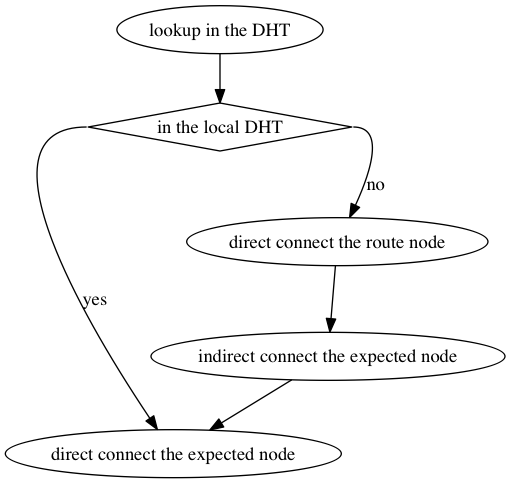
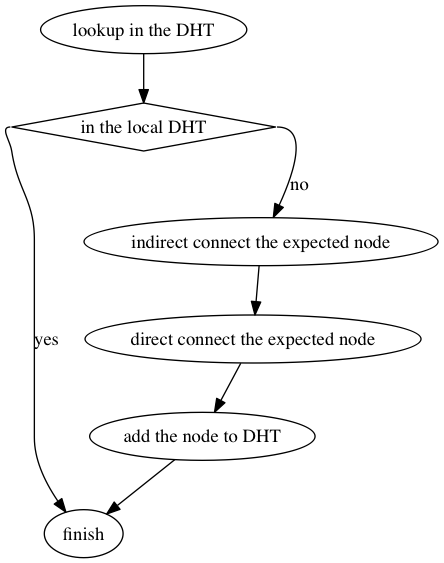
update doc for mate protocol

Changed region(s): [[0.0, 0.0, 0.9955, 0.9938], [0.0878, 0.8385, 0.1171, 0.8696], [0.0878, 0.2795, 0.1171, 0.3106]]

diff --git a/lib/network.js b/lib/network.js
@@ -65,6 +65,8 @@ function Network(options) {
 inherits(Network, events.EventEmitter);
 
 Network.prototype.sendMessage = function (message, address) {
+	message.version = protocol.version;
+
 	debug('Mate udp node send message: %j', message);
 
 	var data = bencode.encode(message);

diff --git a/lib/protocol.js b/lib/protocol.js
@@ -1,5 +1,7 @@
 /* Protocol - protocol constants */
 
+module.exports.version = 1;
+
 /* Message type code => mnemonic */
 module.exports.types = {
 	0: 'mate_lookup',

diff --git a/doc/mate-protocol.md b/doc/mate-protocol.md
@@ -2,32 +2,86 @@
 
 ------
 
-P2P网络中经常需要快速准确地发现目标节点，由于如今网络的复杂化使得这一目标并不容易达成，尤其是存在大量通过NAT实现的专有网络的情况下。此协议旨在解决现有网络条件下发现P2P节点并保证其可用性的问题，它借鉴了部分[DHT协议](http://www.bittorrent.org/beps/bep_0005.html)的实现原理，但它并不同于DHT协议。
+此协议旨在简化建立点到点（P2P）连接的过程，可用于构建分布式的网络体系。
+
+## 版本
+当前版本号：1
 
 ## 概述
-网络中每个节点都使用一串[UUID](http://zh.wikipedia.org/wiki/通用唯一识别码)作为ID，此ID作为节点在整个网络中的唯一标识符，用于后续节点的发现与连接。任一节点已知的所有节点（包括自身）信息都存放于由[Kademlia](http://zh.wikipedia.org/wiki/Kademlia)算法实现的路由表中,它使用节点ID作为索引，ID异或结果作为节点间距离，因而可在路由表中找出距离某一节点最近的一些节点（非地理位置距离）。
-协议基于UDP实现，其总体流程如下图所示。
+网络中每个节点都有一个唯一的身份识别码（ID），此ID默认为UUID，不过也可以通过外部接口设定（由外部保证唯一性），用于后续其他节点与之连接。除此之外每个节点还有一张由[Kademlia](http://zh.wikipedia.org/wiki/Kademlia)算法实现的路由表,此节点已知的所有节点（包括自身）信息都存放于其中，用于帮助网络中的节点发现其他节点。
+在网络中仅通过ID便可与此ID的节点建立连接，其大致流程如下图所示。
 
 ![](findNode.png)
 
-首先在DHT中寻找目标节点，找到后判断其是否位于本地的路由表中：如果是则直接根据本地路由表返回的节点信息进行连接；否则先连接存有此目标节点的路由表所在的节点，最后再连接目标节点。
+首先在DHT中**寻找目标节点**，如果在本地的路由表中找到目标节点则说明此节点已连接；否则先**间接连接**此目标节点，最后再尝试**直接连接**目标节点。寻找目标节点、间接连接和直接连接的实现细节见下文。
 
-### 节点发现
+### 寻找目标节点
 假设自身节点为Node1，需要寻找节点Node5。首先在Node1的路由表中查询Node5，获得异或距离最近的一些节点信息列表。如果列表中包含Node5则表明已经找到所需节点，发现流程结束；否则继续对列表中每个节点的路由表都发起查询请求，依此递归操作，直到超时。时序图如下。
 
 ![](lookup.png)
 
-### 节点连接
-假设自身节点为Node1，需要连接的节点为Node2，包含Node2的路由表所在节点为Node3，起始连接状态为connecting（连接中）。Node1首先使用Node3做代理连接Node2，如果连接成功则将连接状态改为tranship（转发），否则连接失败。时序图如下。
+### 间接连接
+假设自身节点为Node1，需要连接的节点为Node2，包含Node2的路由表所在节点为Node3。Node1使用Node3做代理连接Node2，如果连接成功则Node1将Node2连接信息存入本地路由表，Node2将Node1连接信息存入本地路由表。时序图如下。
 
 ![](indirect.png)
 
-然后Node1尝试直接连接Node2，如果连接成功则将连接状态置为connected（已连接）。时序图如下。
+### 直接连接
+假设Node1需要直接连接Node2。如果Node2节点已经处于间接连接状态则采用**三次握手**的方式进行连接；否则采用**两次握手**的方式进行连接，如果连接成功则Node1将Node2连接信息存入（或更新）本地路由表，Node2将Node1连接信息存入（或更新）本地路由表。
 
-![](direct.png)
+#### 三次握手连接
+与TCP连接类似，其时序图如下。
 
-具体连接过程与TCP连接类似，包括以下几个步骤：
+![](direct_with_three.png)
+
+包括以下几个步骤：
 > 1. 连接发起端向被连接端发送connect；
 > 2. 被连接端回应conack；
-> 3. 连接两端周期性向对方发送ping；
-> 4. 连接两端在一定时间内（大于ping周期）未收到回应则连接失败。
+> 3. 连接发起端回应concomp。
+
+#### 两次握手连接
+与三次握手连接基本一致，仅去除concomp过程，其时序图如下。
+
+![](direct_with_two.png)
+
+包括以下几个步骤：
+> 1. 连接发起端向被连接端发送connect；
+> 2. 被连接端回应conack。
+
+### 心跳
+所有位于本地路由表中的节点都应该周期性的发送心跳包，长时间未收到心跳包的节点需要从路由表中移除。
+
+### 消息
+可以直接向本地路由表中的任一节点发送消息，接收端收到消息后应该回应响应（Ack），发送端如果一定时间内没有收到响应即认为发送失败。
+
+## 数据包
+MATE协议有以下10种类型的数据包：
+- lookup
+- lookresp
+- server
+- nat
+- connect
+- conack
+- concomp
+- ping
+- message
+- msgack
+
+所有数据包都使用[bencode](http://zh.wikipedia.org/wiki/Bencode)格式进行编码，下面按概述中叙述的连接流程说明各数据包的结构。
+
+### 寻找目标节点
+此过程是一个典型的请求/响应(request–response)式流程，类似于HTTP协议，lookup携带目标节点信息发出请求，lookresp载有查询结果进行响应。
+
+### 直接连接
+这个过程与TCP连接过程类似，连接发起端发送含有自身ID的connect包给被连接端，被连接端收到后回复包含被连接端自身ID的conack，最后如果发起端的被连接端处于间接连接状态的话还需要发送含有自身ID的concomp包给被连接端。
+
+### 间接连接
+间接连接发送的包类型与直接连接的完全一致，唯一不同的是connect和conack会被包含于server包和nat包中。当连接发起端向被连接端发送connect时需要将connect包进行编码后放进server包中发送给中转节点，中转节点收到server包后将其转化为nat发送给被连接端；反过来也一样，当被连接端向连接发起端回复conack时需要将conack包进行编码后放进server包中发送给中转节点，中转节点收到server包后将其转化为nat发送给被连接端。
+
+### 心跳
+心跳是一个单向过程，只需要周期性发送包含自身ID的ping包即可。当节点处于间接连接状态时ping包需要包含于server包和nat包中，server包与nat包结构可以参考间接连接部分。
+
+### 消息
+发消息方发送包含消息及自身ID的message包给目标节点，目标节点收到后回复含有自身ID的msgack包即可。当节点处于间接连接状态时message和msgack会被包含于server包和nat包中，server包与nat包结构可以参考间接连接部分。
+
+## 实现
+JavaScript(Node.js): https://code.csdn.net/wuyingfengsui/node-mate

diff --git a/README.md b/README.md
@@ -1,0 +1,28 @@
+# node-mate
+
+------
+
+node-mate is a library for the MATE protocol, written in JavaScript for node.js.
+
+
+## Installation
+
+```sh
+npm install node-mate
+```
+
+## Example
+
+Starting a mate node is very simple.
+
+```js
+var mate = require('node-mate');
+
+var node = mate.createNode({
+	networkPort: 2015
+});
+
+node.on('listening', function() {
+	console.log('mate node ' + node.localNodeContact.id.toString() + ' started');
+});
+```

diff --git a/doc/direct_with_three.md b/doc/direct_with_three.md
@@ -1,0 +1,20 @@
+title Direct connect
+
+participant Node1
+participant Node2
+
+linear
+Node1->Node2: connect
+
+linear off
+Node2->Node1: conack
+
+linear
+Node1->Node2: concomp
+
+linear
+Node1<->Node2: ping
+
+Node1<-->Node2: ping periodically
+
+Node1<-->Node2: message

diff --git a/doc/indirect.md b/doc/indirect.md
@@ -18,6 +18,8 @@ Node3<->Node2: ping
 
 Node1<-->Node2: ping periodically
 
+Node1<-->Node2: message
+
 note right of Node1: All packages are included in the server package
 
 note right of Node3: All packages are included in the nat package

diff --git a/doc/direct_with_two.md b/doc/direct_with_two.md
@@ -13,3 +13,5 @@ linear
 Node1<->Node2: ping
 
 Node1<-->Node2: ping periodically
+
+Node1<-->Node2: message
